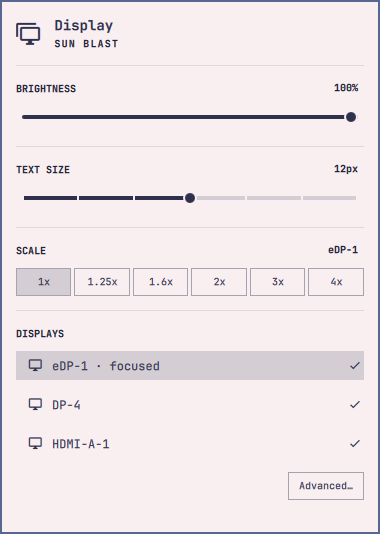
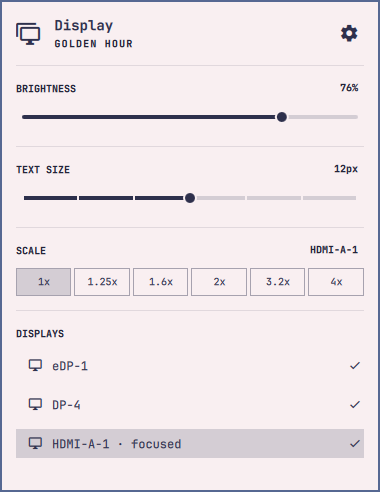
refactor(display): move advanced settings into header

diff --git a/shell/plugins/panels/monitor/Panel.qml b/shell/plugins/panels/monitor/Panel.qml
@@ -83,12 +83,11 @@ Panel {
   }
 
   readonly property var visibleSections: {
-    var list = []
+    var list = ["settings"]
     if (brightnessAvailable) list.push("brightness")
     list.push("textsize")
     list.push("scale")
     if (displays.length > 1) list.push("monitors")
-    list.push("settings")
     return list
   }
 
@@ -546,10 +545,10 @@ Panel {
           width: scrollArea.availableWidth
           spacing: Style.space(14)
 
-          // ---------- Hero: display icon · title/status ----------
+          // ---------- Hero: display icon · title/status · settings ----------
           Item {
             width: parent.width
-            implicitHeight: Math.max(heroIcon.implicitHeight, heroLabels.implicitHeight)
+            implicitHeight: Math.max(heroIcon.implicitHeight, heroLabels.implicitHeight, advancedButton.implicitHeight)
 
             Text {
               id: heroIcon
@@ -562,11 +561,38 @@ Panel {
               anchors.verticalCenter: parent.verticalCenter
             }
 
+            Button {
+              id: advancedButton
+              objectName: "display-advanced-button"
+              anchors.right: parent.right
+              anchors.verticalCenter: parent.verticalCenter
+              iconText: ""
+              tooltipText: "Advanced settings"
+              Accessible.name: tooltipText
+              Accessible.role: Accessible.Button
+              foreground: root.bar.foreground
+              fontFamily: root.bar.fontFamily
+              iconSize: Style.font.subtitle * 1.5
+              horizontalPadding: Style.space(5)
+              verticalPadding: Style.space(2)
+              hasCursor: root.cursorActive && root.focusSection === "settings"
+              onHasCursorChanged: if (hasCursor) root.ensureCursorVisible(this)
+              onHovered: function(hovered) {
+                if (hovered && !root.reflowingText) {
+                  root.cursorActive = true
+                  root.focusSection = "settings"
+                  root.selectedIndex = 0
+                }
+              }
+              onClicked: root.openSettings()
+            }
+
             Column {
               id: heroLabels
               anchors.left: heroIcon.right
               anchors.leftMargin: Style.space(14)
-              anchors.right: parent.right
+              anchors.right: advancedButton.left
+              anchors.rightMargin: Style.space(12)
               anchors.verticalCenter: parent.verticalCenter
               spacing: Style.space(2)
 
@@ -840,32 +866,6 @@ Panel {
                 display: modelData
                 rowIndex: index
               }
-            }
-          }
-
-          Item {
-            width: parent.width
-            implicitHeight: advancedButton.implicitHeight
-
-            Button {
-              id: advancedButton
-              objectName: "display-advanced-button"
-              anchors.right: parent.right
-              text: "Advanced…"
-              foreground: root.bar.foreground
-              fontFamily: root.bar.fontFamily
-              fontSize: Style.font.caption
-              bordered: true
-              hasCursor: root.cursorActive && root.focusSection === "settings"
-              onHasCursorChanged: if (hasCursor) root.ensureCursorVisible(this)
-              onHovered: function(hovered) {
-                if (hovered && !root.reflowingText) {
-                  root.cursorActive = true
-                  root.focusSection = "settings"
-                  root.selectedIndex = 0
-                }
-              }
-              onClicked: root.openSettings()
             }
           }
 

diff --git a/manual/33-monitors.md b/manual/33-monitors.md
@@ -38,7 +38,7 @@ When you're extending, closing the lid on the laptop will automatically turn off
 
 ### Arranging multiple screens
 
-Open the display popup in the top bar and choose **Advanced…** at the bottom right to open the settings popup. Its tabs cover arrangement, display modes, and workspace assignments.
+Open the display popup in the top bar and choose the settings icon at the top right (its tooltip reads **Advanced settings**) to open the settings popup. Its tabs cover arrangement, display modes, and workspace assignments.
 
 - **Arrangement:** drag screens; nearby edges snap together. Enter precise X/Y positions or place a screen left, right, above, or below another.
 - **Displays:** select a screen, resolution, supported refresh rate, and orientation.
